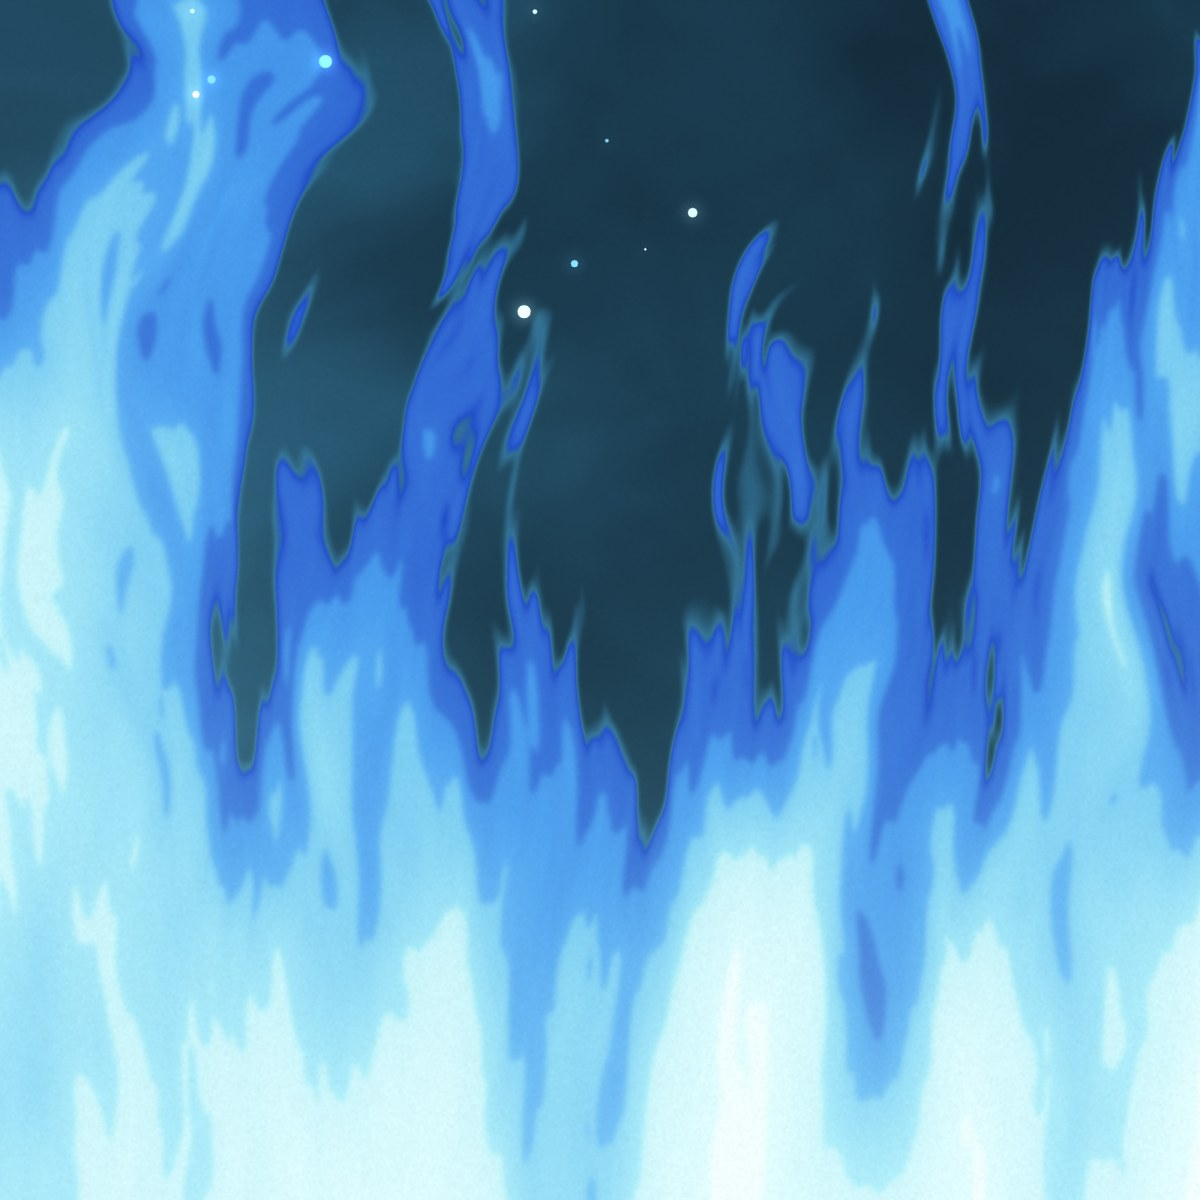
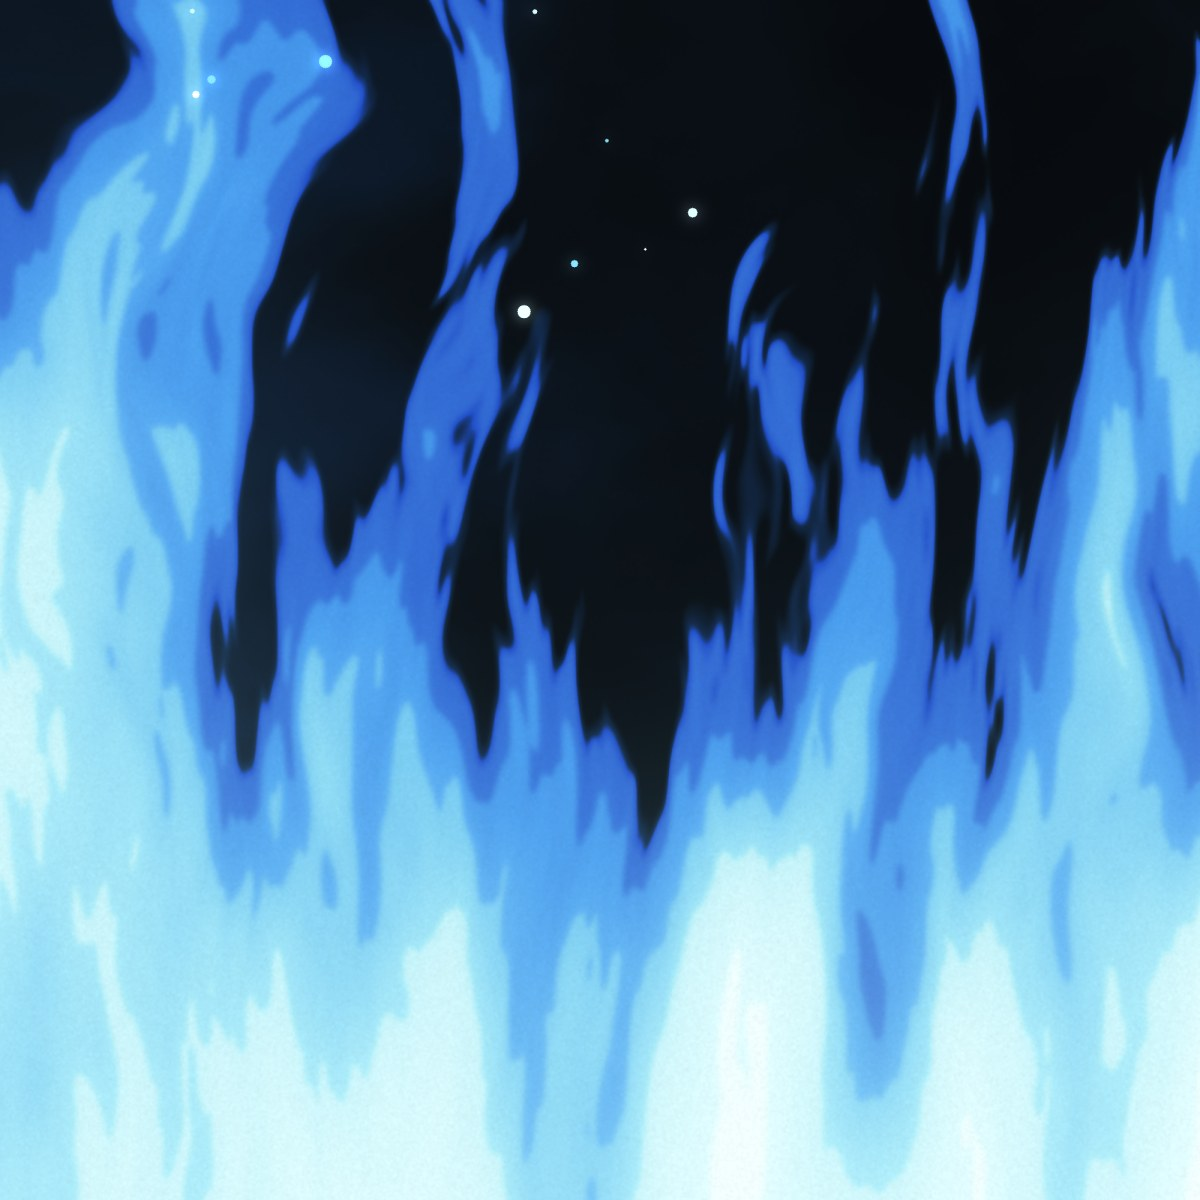
Blue Flame '88: black background
Claude-Session: https://claude.ai/code/session_0127vMjnJRYBY8RJT8fGrYSF

diff --git a/config.js b/config.js
@@ -2,7 +2,7 @@
 // The logo artwork is in /brand (swap those SVG/PNG files if the name changes).
 window.SITE = {
   // Bump this whenever you replace a vest image (same filename) so browsers fetch the new one
-  imgVersion: 16,
+  imgVersion: 17,
 
   brand: {
     name: "Stinger",
@@ -146,7 +146,7 @@ window.SITE = {
       img: "blueflame",
       name: "Blue Flame '88",
       kicker: "Blue fire",
-      blurb: "Royal blue and cerulean flames with icy white cores, climbing highest up the sides and fading into teal smoke and sparks across the chest. Sky-blue lining.",
+      blurb: "Royal blue and cerulean flames with icy white cores, climbing highest up the sides and fading into black with sparks across the chest. Sky-blue lining.",
       glow: "#489EEF",
       noBack: true, // no back photo yet: hide the back view
     },
